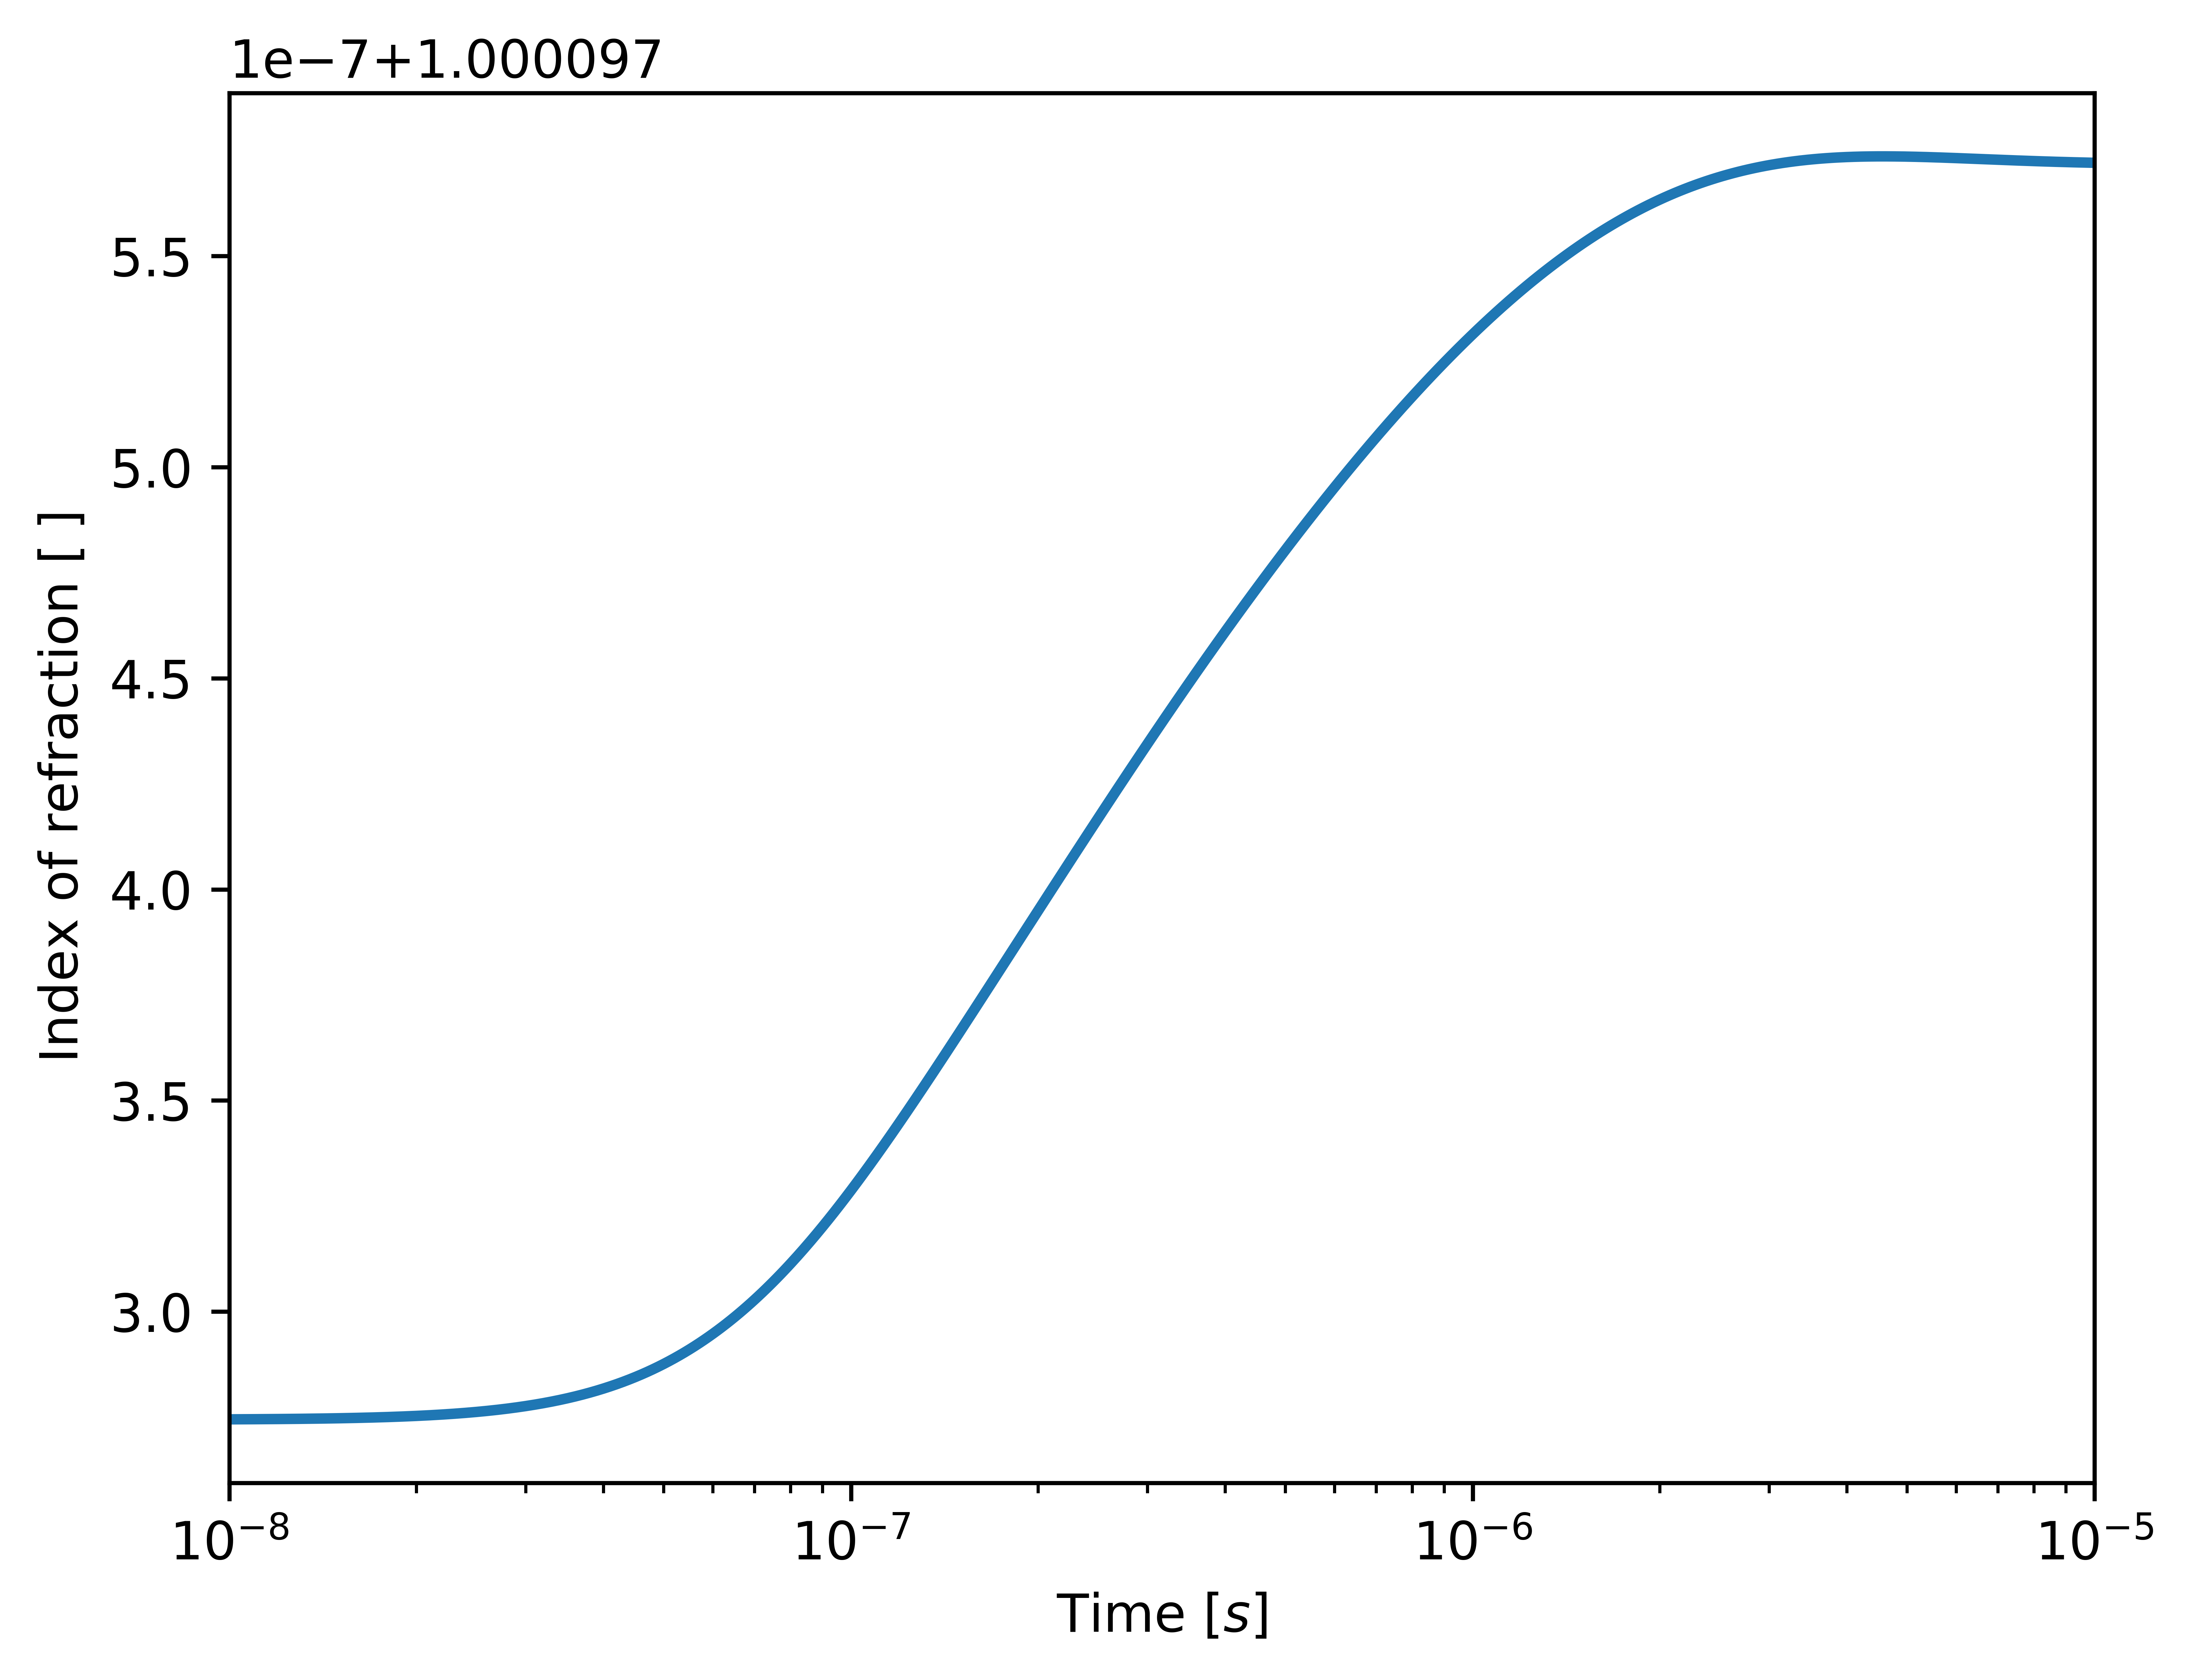
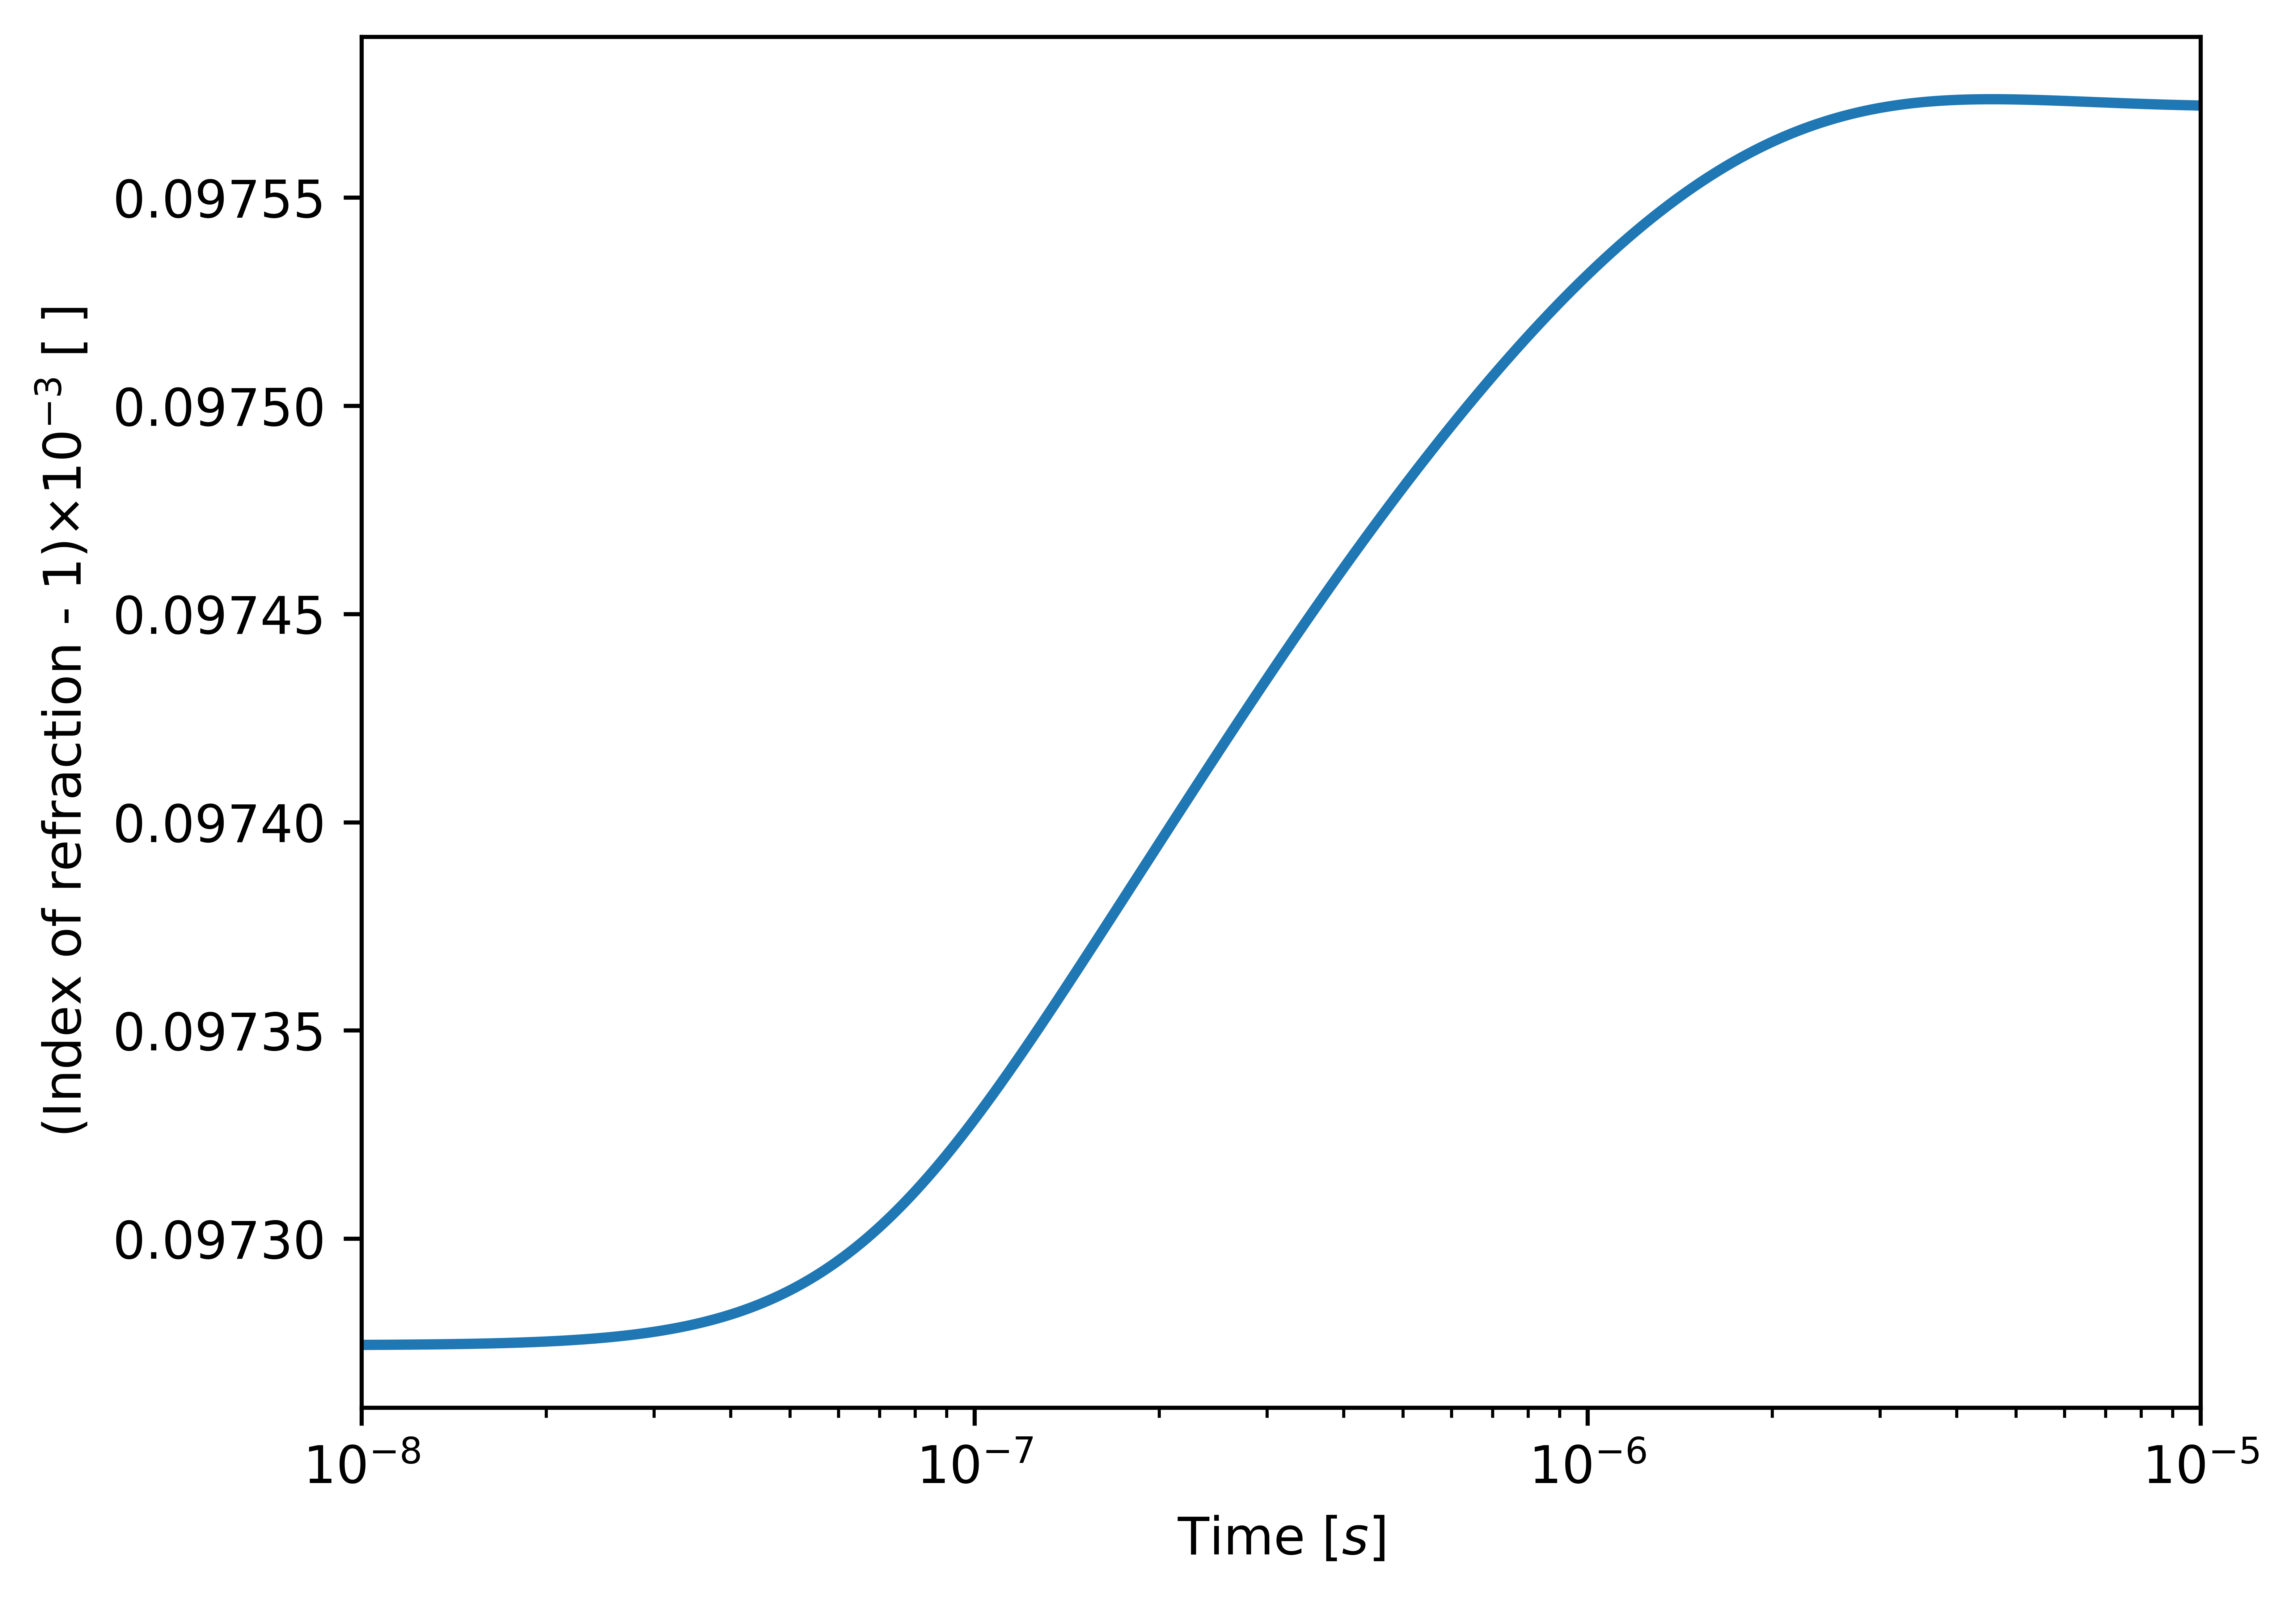
Updated heat bath and ionization results

diff --git a/src/ch5/ionization.tex b/src/ch5/ionization.tex
@@ -38,7 +38,13 @@
     \end{table}
 
     \subsection{Results Case $3I$ \label{sub:case3I}}
-        
+
+        \FigRef{fig:3ITemperatures} shows the vibration and translational
+        temperatures for case $3I$ in \TabRef{tab:ionizationTableStudy}.
+
+        \pic{0.5}{chapter5/ionization/3I_temperatureTime}{Temperatures for case
+    $3I$}{fig:3ITemperatures}
+
         \FigRef{fig:3IDensityNeutral} shows the change in density for the
         neutral species and \FigRef{fig:3IDensityIon} shows the density for ion
         species for case $3I$ in \TabRef{tab:ionizationTableStudy}.
@@ -48,5 +54,52 @@
         {chapter5/ionization/3I_densityIonTime}
         {Densities for ion species of case $3I$\label{fig:3IDensityIon}} 
 
+        \FigRef{fig:3IGladstoneDaleNeutral} shows the \gls{GD} for the neutral
+        species and \FigRef{fig:3IGladstoneDaleIon} shows the \gls{GD} for the
+        ion species for case $3I$ in \TabRef{tab:ionizationTableStudy}.
 
+        \Dpic{chapter5/ionization/3I_gladstoneSpecificNeutralTime}
+        {\gls{GD} for specific neutral species for case
+        $3I$\label{fig:3IGladstoneDaleNeutral}} 
+        {chapter5/ionization/3I_gladstoneSpecificIonTime}
+        {\gls{GD} for ion species for case $3I$\label{fig:3IGladstoneDaleIon}} 
 
+        \Dpic{chapter5/ionization/3I_gladstonedaleConstTime}{\gls{GD} constant
+        for case
+        $3I$\label{fig:3IGladstoneDaleConstant}}{chapter5/ionization/3I_indexOfRefractionTime}{Index of refraction for case $3I$\label{fig:3IIndexOfRefraction}}
+
+    \subsection{Results Case $5I$ \label{sub:case5I}}
+
+        \FigRef{fig:5ITemperatures} shows the vibration and translational
+        temperatures for case $5I$ in \TabRef{tab:ionizationTableStudy}.
+
+        \pic{0.5}{chapter5/ionization/5I_temperatureTime}{Temperatures for case
+    $5I$}{fig:5ITemperatures}
+        
+        \FigRef{fig:5IDensityNeutral} shows the change in density for the
+        neutral species and \FigRef{fig:5IDensityIon} shows the density for ion
+        species for case $5I$ in \TabRef{tab:ionizationTableStudy}.
+
+        \Dpic{chapter5/ionization/5I_densityNeutralTime}
+        {Densities for neutral species of case $5I$\label{fig:5IDensityNeutral}} 
+        {chapter5/ionization/5I_densityIonTime}
+        {Densities for ion species of case $5I$\label{fig:5IDensityIon}} 
+
+        \FigRef{fig:5IGladstoneDaleNeutral} shows the \gls{GD} for the neutral
+        species and \FigRef{fig:5IGladstoneDaleIon} shows the \gls{GD} for the
+        ion species for case $5I$ in \TabRef{tab:ionizationTableStudy}.
+
+        \Dpic{chapter5/ionization/5I_gladstoneSpecificNeutralTime}
+        {\gls{GD} for specific neutral species for case
+        $5I$\label{fig:5IGladstoneDaleNeutral}} 
+        {chapter5/ionization/5I_gladstoneSpecificIonTime}
+        {\gls{GD} for ion species for case $5I$\label{fig:5IGladstoneDaleIon}} 
+
+        \FigRef{fig:5IGladstoneDaleConstant} shows the \gls{GD} and
+        \FigRef{fig:5IIndexOfRefraction} shows the index of refraction for case
+        $5I$ in \TabRef{tab:ionizationTableStudy}.
+
+        \Dpic{chapter5/ionization/5I_gladstonedaleConstTime}{\gls{GD} constant
+        for case
+        $5I$\label{fig:5IGladstoneDaleConstant}}{chapter5/ionization/5I_indexOfRefractionTime}{Index
+        of refraction for case $5I$\label{fig:5IIndexOfRefraction}}

diff --git a/src/ch5/heatBath.tex b/src/ch5/heatBath.tex
@@ -58,12 +58,12 @@ cases studied during this analysis. Most of these conditions were took from
         {Densities for case $1H$\label{fig:1HDensityNeutral}} 
         {chapter5/heatBath/1H_temperatureTime}{Temperatures for case $1H$\label{fig:1HTemperatures}}
 
-        \Dpic{chapter5/heatBath/1H_gladstoneSpecificNeutralTime.png}{Specific
-    Gladstone-Dale constant for case $1H$\label{fig:1HSpecificGladstoneDale}}
-    {chapter5/heatBath/1H_gladstonedaleConstTime.png}{Gladstone-Dale
+        \Dpic{chapter5/heatBath/1H_gladstoneSpecificNeutralTime}{Specific
+    \gls{GD} constant for case $1H$\label{fig:1HSpecificGladstoneDale}}
+    {chapter5/heatBath/1H_gladstonedaleConstTime}{\gls{GD}
     constant for case $1H$\label{fig:1HGladstoneDaleConst}}
 
-        \pic{0.5}{chapter5/heatBath/1H_indexOfRefractionTime.png}{Index of Refraction for case
+        \pic{0.5}{chapter5/heatBath/1H_indexOfRefractionTime}{Index of Refraction for case
     $1H$}{fig:1HIndexOfRefraction}
         
 
@@ -75,12 +75,12 @@ cases studied during this analysis. Most of these conditions were took from
         {Densities for case $2H$\label{fig:2HDensityNeutral}} 
         {chapter5/heatBath/2H_temperatureTime}{Temperatures for case $2H$\label{fig:2HTemperatures}}
 
-        \Dpic{chapter5/heatBath/2H_gladstoneSpecificNeutralTime.png}{Specific
-    Gladstone-Dale constant for case $2H$\label{fig:2HSpecificGladstoneDale}}
-    {chapter5/heatBath/2H_gladstonedaleConstTime.png}{Gladstone-Dale
+        \Dpic{chapter5/heatBath/2H_gladstoneSpecificNeutralTime}{Specific
+    \gls{GD} constant for case $2H$\label{fig:2HSpecificGladstoneDale}}
+    {chapter5/heatBath/2H_gladstonedaleConstTime}{\gls{GD}
     constant for case $2H$\label{fig:2HGladstoneDaleConst}}
 
-        \pic{0.5}{chapter5/heatBath/2H_indexOfRefractionTime.png}{Index of Refraction for case
+        \pic{0.5}{chapter5/heatBath/2H_indexOfRefractionTime}{Index of Refraction for case
     $2H$}{fig:2HIndexOfRefraction}
 
     \subsection{Results Case $3H$ \label{sub:case3H}}
@@ -91,12 +91,12 @@ cases studied during this analysis. Most of these conditions were took from
         {Densities for case $3H$\label{fig:3HDensityNeutral}} 
         {chapter5/heatBath/3H_temperatureTime}{Temperatures for case $3H$\label{fig:3HTemperatures}}
 
-        \Dpic{chapter5/heatBath/3H_gladstoneSpecificNeutralTime.png}{Specific
-    Gladstone-Dale constant for case $3H$\label{fig:3HSpecificGladstoneDale}}
-    {chapter5/heatBath/3H_gladstonedaleConstTime.png}{Gladstone-Dale
+        \Dpic{chapter5/heatBath/3H_gladstoneSpecificNeutralTime}{Specific
+    \gls{GD} constant for case $3H$\label{fig:3HSpecificGladstoneDale}}
+    {chapter5/heatBath/3H_gladstonedaleConstTime}{\gls{GD}
     constant for case $3H$\label{fig:3HGladstoneDaleConst}}
 
-        \pic{0.5}{chapter5/heatBath/3H_indexOfRefractionTime.png}{Index of Refraction for case
+        \pic{0.5}{chapter5/heatBath/3H_indexOfRefractionTime}{Index of Refraction for case
     $3H$}{fig:3HIndexOfRefraction}
 
     \subsection{Results Case $4H$ \label{sub:case4H}}
@@ -107,12 +107,12 @@ cases studied during this analysis. Most of these conditions were took from
         {Densities for case $4H$\label{fig:4HDensityNeutral}} 
         {chapter5/heatBath/4H_temperatureTime}{Temperatures for case $4H$\label{fig:4HTemperatures}}
 
-        \Dpic{chapter5/heatBath/4H_gladstoneSpecificNeutralTime.png}{Specific
-    Gladstone-Dale constant for case $4H$\label{fig:4HSpecificGladstoneDale}}
-    {chapter5/heatBath/4H_gladstonedaleConstTime.png}{Gladstone-Dale
+        \Dpic{chapter5/heatBath/4H_gladstoneSpecificNeutralTime}{Specific
+    \gls{GD} constant for case $4H$\label{fig:4HSpecificGladstoneDale}}
+    {chapter5/heatBath/4H_gladstonedaleConstTime}{\gls{GD}
     constant for case $4H$\label{fig:4HGladstoneDaleConst}}
 
-        \pic{0.5}{chapter5/heatBath/4H_indexOfRefractionTime.png}{Index of Refraction for case
+        \pic{0.5}{chapter5/heatBath/4H_indexOfRefractionTime}{Index of Refraction for case
     $4H$}{fig:4HIndexOfRefraction}
 
     \subsection{Results Case $5H$ \label{sub:case5H}}
@@ -123,10 +123,10 @@ cases studied during this analysis. Most of these conditions were took from
         {Densities for case $5H$\label{fig:5HDensityNeutral}} 
         {chapter5/heatBath/5H_temperatureTime}{Temperatures for case $5H$\label{fig:5HTemperatures}}
 
-        \Dpic{chapter5/heatBath/5H_gladstoneSpecificNeutralTime.png}{Specific
-    Gladstone-Dale constant for case $5H$\label{fig:5HSpecificGladstoneDale}}
-    {chapter5/heatBath/5H_gladstonedaleConstTime.png}{Gladstone-Dale
+        \Dpic{chapter5/heatBath/5H_gladstoneSpecificNeutralTime}{Specific
+    \gls{GD} constant for case $5H$\label{fig:5HSpecificGladstoneDale}}
+    {chapter5/heatBath/5H_gladstonedaleConstTime}{\gls{GD}
     constant for case $5H$\label{fig:5HGladstoneDaleConst}}
 
-        \pic{0.5}{chapter5/heatBath/5H_indexOfRefractionTime.png}{Index of Refraction for case
+        \pic{0.5}{chapter5/heatBath/5H_indexOfRefractionTime}{Index of Refraction for case
     $5H$}{fig:5HIndexOfRefraction}

diff --git a/src/ch1/motivation.tex b/src/ch1/motivation.tex
@@ -25,7 +25,7 @@
         and III of \TabRef{tab:ch1AeroOpticalFidelities}. While a RANS approach
         averages out turbulent fluctuations, it is a popular approach for
         hypersonic vehicle analysis due to it’s efficiency \cite{Candler2019}
-        and can still provide aero-optical quantities such as Gladstone-Dale
+        and can still provide aero-optical quantities such as \gls{GD}
         constant, polarizability, \gls{BSE}, \gls{OPL}, \gls{OPD}, and \gls{WD}. The amount of enthalpy is also an important criteria in the flow field. With high enthalpy flows, many physical phenomena in the flow field that are not present in low-speed flows present themselves. This includes nonequilibrium, reactive flows, and excitation of molecular internal modes, all of which can affect optical signals either directly or indirectly; these are shown in the top Quadrants. This work aims to investigate and compare all quadrants using different fidelities of nonequilibrium and fluid flows.\\
         \begin{table}[ht!]
             \begin{center}

diff --git a/src/append/abbreviations.tex b/src/append/abbreviations.tex
@@ -6,6 +6,7 @@
 %\newabbreviation{}{}{}
 
 \newabbreviation{hynecc}{HyNECC}{Hypersonic NonEquilibrium Comparison Cases}
+\newabbreviation{GD}{G-D}{Gladstone-Dale}
 \newabbreviation{NS}{N-S}{Navier-Stokes}
 \newabbreviation{LeMANS}{LeMANS}{Le Michigan Aerothermodynamic Navier-Stokes Solver}
 \newabbreviation{CFD}{CFD}{Computational Fluid Dynamics}